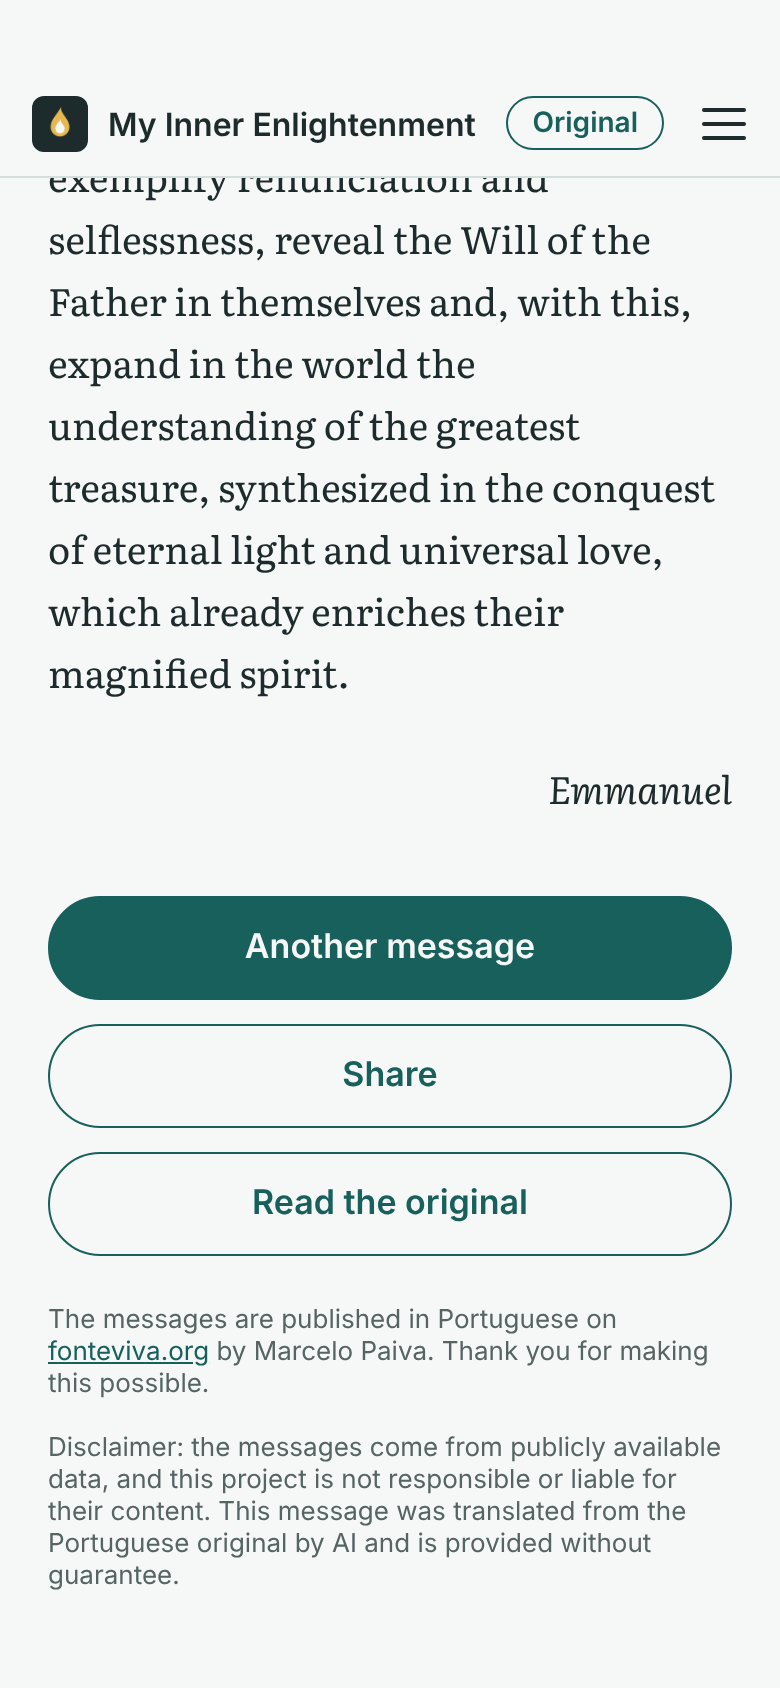
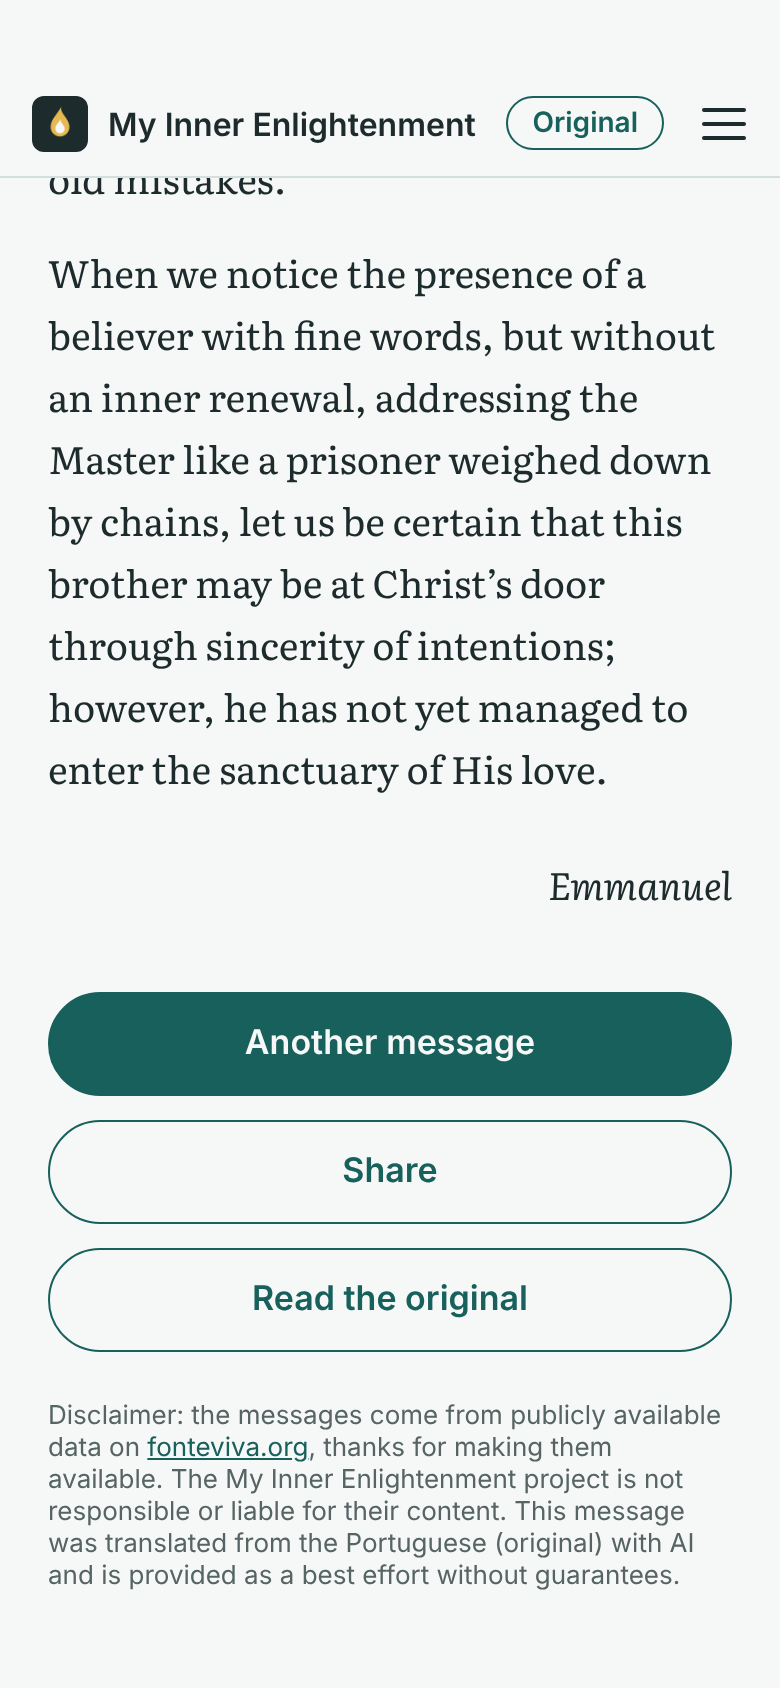
One disclaimer with the thanks and a link to the same message on fonteviva.org
Claude-Session: https://claude.ai/code/session_01VPrcrdm2VhLeiZs3qZpoRB

diff --git a/scripts/build-site.ts b/scripts/build-site.ts
@@ -195,8 +195,7 @@ class Website {
       url: escapeHtml(originalLink(message.url, content.language)),
       readOriginal: labels.readOriginal,
       studyGroups: labels.studyGroups,
-      credit: this.credit(content),
-      disclaimer: `<p class="disclaimer">${[labels.disclaimer, labels.translationDisclaimer].filter((text) => text).join(' ')}</p>`,
+      disclaimer: this.disclaimer(content, message),
     });
     return this.page(content.language, message.title, '../../', body, original, menu);
   }
@@ -223,6 +222,14 @@ class Website {
         .map((p, i) => (p.isOriginal ? `<p class="original" lang="pt">${escapeHtml(p.text)}</p>` : paragraph(p.text, i === 0)))
         .join('\n'),
     };
+  }
+
+  // The one disclaimer of a message page; its one mention of fonteviva.org links to the same message there.
+  disclaimer(content: Content, message: Message): string {
+    const { disclaimer, translationDisclaimer } = content.labels;
+    const link = `<a href="${escapeHtml(originalLink(message.url, content.language))}">fonteviva.org</a>`;
+    const text = [escapeHtml(disclaimer).replace('fonteviva.org', link), translationDisclaimer && escapeHtml(translationDisclaimer)];
+    return `<p class="disclaimer">${text.filter((part) => part).join(' ')}</p>`;
   }
 
   // The credit to fonteviva.org, with its address as a link.

diff --git a/mobile/App.tsx b/mobile/App.tsx
@@ -440,7 +440,7 @@ export default function App() {
   }
 
   // UC-18: a translation can show the Portuguese original after each paragraph.
-  const [creditBefore, creditAfter] = t.credit.split('fonteviva.org'); // the credit links its one mention of the site
+  const [disclaimerBefore, disclaimerAfter] = t.disclaimer.split('fonteviva.org'); // the disclaimer links its one mention of the site
   const original = messageIn('pt', message.id)!;
   const comparing = isTranslation && showOriginal;
   const paragraphs = comparing
@@ -499,13 +499,11 @@ export default function App() {
         <Action title={t.readOriginal} onPress={() => Linking.openURL(originalLink(message.url, settings.language))} />
       </View>
       <Text style={styles.disclaimer}>
-        {creditBefore}
-        <Text style={styles.link} onPress={() => Linking.openURL('https://fonteviva.org/')}>
+        {disclaimerBefore}
+        <Text style={styles.link} onPress={() => Linking.openURL(originalLink(message.url, settings.language))}>
           fonteviva.org
         </Text>
-        {creditAfter}
-        {'\n\n'}
-        {t.disclaimer}
+        {disclaimerAfter}
         {isTranslation && ` ${t.translationDisclaimer}`}
       </Text>
     </Screen>

diff --git a/website/templates/message.html b/website/templates/message.html
@@ -35,6 +35,5 @@ show();
 <footer>
 <p><a href="{{url}}">{{readOriginal}}</a></p>
 <p><a href="../study-groups/">{{studyGroups}}</a></p>
-{{credit}}
 {{disclaimer}}
 </footer>
